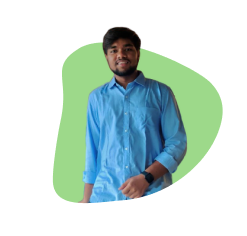
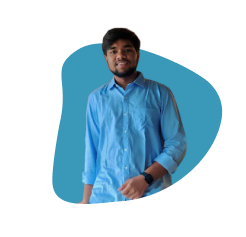
Modified the previous website

diff --git a/index.html b/index.html
@@ -6,13 +6,13 @@
     <meta name="viewport" content="width=device-width, initial-scale=1.0" />
     <link rel="icon" type="image/x-icon" href="/assessts/Logo.ico" />
     <link rel="stylesheet" href="style.css" />
-    <title>Seam</title>
+    <title>SharpVision</title>
   </head>
   <body>
     <div class="wrapper">
       <nav>
         <div class="logo">
-          <img src="assessts/Logo 1.png" alt="" />
+          <img src="assessts/logo.png" alt="" />
         </div>
         <div class="right">
           <ul>
@@ -25,14 +25,14 @@
       </nav>
       <section id="#home" class="home">
         <div class="container">
-          <h1>Build Your Team With Ease</h1>
-          <h4>Made with ❤ by team HackSmiths</h4>
+          <h1>Advanced ANPR & FRS solution</h1>
+          <h4>Made with ❤ by team Naagshakti</h4>
           <div class="links">
-            <a
+            <!-- <a
               href="https://seam-seamless-connect.herokuapp.com/"
               target="_blank"
               >Go To The Website</a
-            >
+            > -->
             <a
               href="https://github.com/lakshyaagr1105/HackSmiths_Seam"
               target="_blank"
@@ -50,27 +50,62 @@
         </div>
       </section>
       <section id="about" class="about">
-        <div class="about_left"><img src="assessts/about.png" alt="" /></div>
-        <div class="about_right">
-          <h1>What we’re working on?</h1>
-          <p>
-            Hacking with your teammates is always better than going solo,
-            especially in offline hackathons. Our website tries to make it as
-            easy as it can be to find teammates for your next hackathon. While
-            many hackathon specific websites like Devfolio and Devpost exist, it
-            isn’t easy to find and make teams there. With our website, users can
-            see all the hackathons listed and then move to the chat room to
-            interact with other hackers who will be attending that particular
-            hackathon. They can then choose to make teams or just get to know
-            other hackers, it’s upto them. Our UI is simple and minimal so that
-            we can avoid all the clutter and help you get what you want - your
-            hackathon teammates.
-          </p>
-          <a
-            href="https://www.youtube.com/watch?v=JoCri8vxy1k&feature=youtu.be"
-            >View Product Demo</a
-          >
+        <div class="about_top">
+          <div class="about_left"><img src="assessts/about.png" alt="" /></div>
+          <div class="about_right">
+            <h1>What we’re working on?</h1>
+            <p>
+              A technological solution that can accurately perform the Automatic
+              Number Plate Recognition (ANPR) along with Facial Recognition from
+              the available CCTV feeds. The solution should be able to recognize
+              number plates that are written in typical non-standard ways using
+              varying font styles, sizes, designs, symbols, languages etc., i.e.
+              difficult to recognize by existing ANPR Systems.
+            </p>
+            <a
+              href="https://www.youtube.com/watch?v=JoCri8vxy1k&feature=youtu.be"
+              >View Product Prototype</a
+            >
+          </div>
         </div>
+        <div class="cases">What are our Use Cases?</div>
+        <ul class="applications">
+          <li>
+            <span class="bd">Automation:</span> The automated recognition of number plates allows
+            automated alerts and controls for facilities. Hence, ANPR is a key
+            technology for smart cities or toll stations.
+          </li>
+          <li>
+            <span class="bd">Law enforcement:</span> Police forces use ANPR for law enforcement
+            purposes, to check if a vehicle is registered, or to identify
+            vehicles related to traffic violations. The ability to detect and
+            recognize number plates in real-time allows authorities to identify
+            vehicles and track their location. Along with this police can also
+            detect that the driver is above 18 or not or can also detect the
+            faces of those people who have the criminal profiles.
+          </li>
+          <li>
+            <span class="bd">Private Security:</span> Private security companies can use this solution
+            to monitor the premises of private properties such as office
+            buildings, residential complexes, and shopping centers allowing for
+            accurate tracking of visitors and potential security threats
+          </li>
+          <li>
+            <span class="bd">Border Control:</span> This solution can be used at border crossings to
+            identify vehicles and drivers entering and leaving the country
+            allowing for accurate tracking of border crossings and
+            identification of potential security threats.
+          </li>
+          <li>
+            <span class="bd">Parking Management:</span> This solution can be used in parking lots and
+            garages to manage parking and monitor vehicles entering and leaving
+            the premises allowing for accurate billing and tracking of parked
+            vehicles.
+          </li>
+        </ul>
+        <p>Overall, ANPR and FRS solutions have a wide range of applications
+          across industries and sectors, and are becoming increasingly important
+          for ensuring security, efficiency, and convenience.</p>
       </section>
       <section id="tech_stack" class="tech_stack">
         <h1>Our Tech Stack</h1>
@@ -79,34 +114,45 @@
             <ul>
               <h4>Deployment</h4>
               <li><img src="/assessts/github.png" alt="" /></li>
-              <li><img src="/assessts/heroku.png" alt="" /></li>
+              <li><img src="/assessts/Pyweb.png" alt="" /></li>
             </ul>
           </div>
           <div class="list">
             <ul>
               <h4>Design</h4>
-              <li><img src="/assessts/figma.png" alt="" /></li>
+              <li><img src="/assessts/Fig.png" alt="" /></li>
             </ul>
           </div>
           <div class="list">
             <ul>
               <h4>Frontend</h4>
-              <li><img src="/assessts/html.png" alt="" /></li>
+              <li><img src="/assessts/Next.png" alt="" /></li>
               <li><img src="/assessts/css.png" alt="" /></li>
-              <li><img src="/assessts/js.png" alt="" /></li>
+              <!-- <li><img src="/assessts/js.png" alt="" /></li> -->
+            </ul>
+          </div>
+          <div class="list">
+            <ul>
+              <h4>Python</h4>
+              <li><img src="/assessts/numpy.png" alt="" /></li>
+              <li><img src="/assessts/opencv.png" alt="" /></li>
+              <li><img src="/assessts/ocr.png" alt="" /></li>
+              <li><img src="/assessts/frs.png" alt="" /></li>
+              <li><img src="/assessts/dilib.png" alt="" /></li>
+              <!-- <li><img src="/assessts/js.png" alt="" /></li> -->
             </ul>
           </div>
           <div class="list">
             <ul>
               <h4>Backend</h4>
-              <li><img src="/assessts/python.png" alt="" /></li>
-              <li><img src="/assessts/django.png" alt="" /></li>
+              <li><img src="/assessts/Flask.png" alt="" /></li>
+              <!-- <li><img src="/assessts/django.png" alt="" /></li> -->
             </ul>
           </div>
         </div>
       </section>
       <section id="team" class="team">
-        <h1>Team HackSmiths</h1>
+        <h1>Team Naagshakti</h1>
         <div class="members">
           <div>
             <img src="/assessts/Udbhav.png" />
@@ -128,10 +174,20 @@
             <div class="name">Lakshya Agrawal</div>
             <div class="designation">Frontend Web Developer</div>
           </div>
+          <div>
+            <img src="/assessts/Lipika.png" />
+            <div class="name">Lipika Garg</div>
+            <div class="designation">ML Developer</div>
+          </div>
+          <div>
+            <img src="/assessts/Akruti.png" />
+            <div class="name">Akruti Agarwal</div>
+            <div class="designation">ML Developer</div>
+          </div>
         </div>
       </section>
       <footer>
-        <p>Made with ❤ by team HackSmiths</p>
+        <p>Made with ❤ by team Naagshakti</p>
       </footer>
     </div>
   </body>

diff --git a/style.css b/style.css
@@ -12,7 +12,7 @@ html {
 }
 
 body {
-  background: #f5eeb3;
+  background: #e4e4e4;
   overflow-x: hidden;
 }
 
@@ -23,7 +23,7 @@ body {
 }
 
 .logo > img {
-  width: 10rem;
+  width: 7rem;
 }
 
 nav {
@@ -78,7 +78,7 @@ nav ul li a:hover {
   justify-content: center;
   flex-direction: column;
   gap: 30px;
-  background: rgba(168, 232, 144, 1);
+  background: #3a98b9;
 }
 
 .container h1 {
@@ -100,64 +100,86 @@ nav ul li a:hover {
 }
 
 .links a {
-  background: rgba(66, 95, 87, 1);
+  background: #fff1dc;
   padding: 12px 48px;
   text-decoration: none;
   font-size: 15px;
-  color: white;
+  color: #0c1e25;
   margin: 13px;
   border-radius: 12px;
+  border: 2px solid #262c2f;
 }
 
 .links a:hover {
-  background-color: rgb(23, 42, 36);
+  background-color: #0c1e25;
+  color: #fff1dc;
+  transition: ease-in-out;
 }
 
 .about {
   display: flex;
   align-items: center;
   justify-content: center;
+  flex-direction: column;
   height: 100vh;
   width: 70vw;
   gap: 3rem;
+  margin-top: 13rem;
 }
 
-.about_left img {
+.about_top {
+  display: flex;
+  align-items: center;
+  justify-content: center;
+  gap: 3rem;
+  margin-bottom: 5rem;
+}
+/* .about_left img {
   border: 3.8px solid #000000;
   box-shadow: 0px 19.0415px 38.0829px rgba(0, 0, 0, 0.12);
   border-radius: 38.0829px;
-}
+} */
 
 .about_right h1 {
   font-weight: 800;
   font-size: 2.5rem;
   line-height: 61px;
+  margin-top: -3rem;
 }
 
 .about_right p {
   font-weight: 500;
   font-size: 17px;
   line-height: 28px;
-  margin-bottom: 20px;
+  margin-bottom: 3rem;
   text-align: justify;
 }
 .about_right a {
-  background: rgba(66, 95, 87, 1);
+  background: #3a98b9;
   border-radius: 12px;
   padding: 12px 48px;
   text-decoration: none;
   font-size: 15px;
   color: white;
   margin-top: 3rem;
+  border: 2px solid #0c1e25;
 }
 .about_right a:hover {
   background-color: rgb(23, 42, 36);
 }
+
+.cases {
+  font-weight: 600;
+  font-size: 48px;
+ 
+}
+
 .tech_stack {
   display: flex;
   flex-direction: column;
   justify-content: center;
   height: 100vh;
+  margin-top: 6rem;
 }
 .tech_stack h1 {
   font-weight: 800;
@@ -171,13 +193,20 @@ nav ul li a:hover {
   width: 70vw;
 }
 
+.list ul
+{
+  display: flex;
+  align-items: center;
+  justify-content: center;
+  flex-direction: column;
+}
 .list ul li {
   list-style: none;
 }
 
 .list ul li img {
-  width: 12rem;
-  margin-bottom: -29px;
+  width: 9rem;
+  margin-bottom: 2px;
   transition: 0.3s;
 }
 .list ul li img:hover {
@@ -202,10 +231,11 @@ nav ul li a:hover {
   font-weight: 800;
 }
 .members {
+  width: 70vw;
   display: flex;
   flex-wrap: wrap;
   flex-direction: row;
-  gap: 2rem;
+  gap: 8rem;
   justify-content: center;
   align-items: center;
 }
@@ -225,4 +255,18 @@ footer {
   opacity: 0.6;
   font-size: 1rem;
   font-family: "Google Sans";
+  margin-top: 3rem;
+}
+
+.bd
+{
+
+  font-weight: 900;
+  font-size: 1.1rem;
+}
+
+.applications li
+
+{
+  padding: 1rem;
 }
